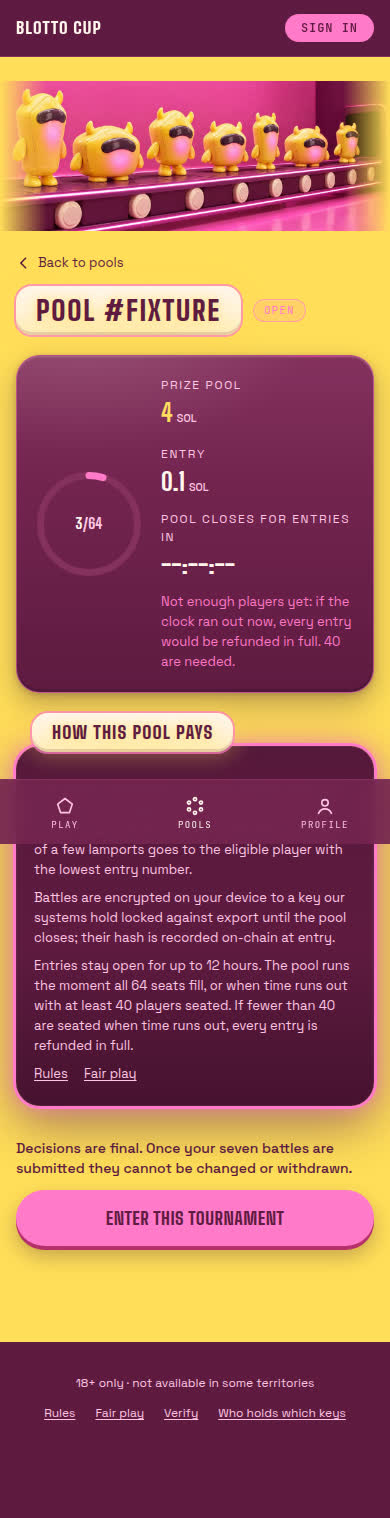
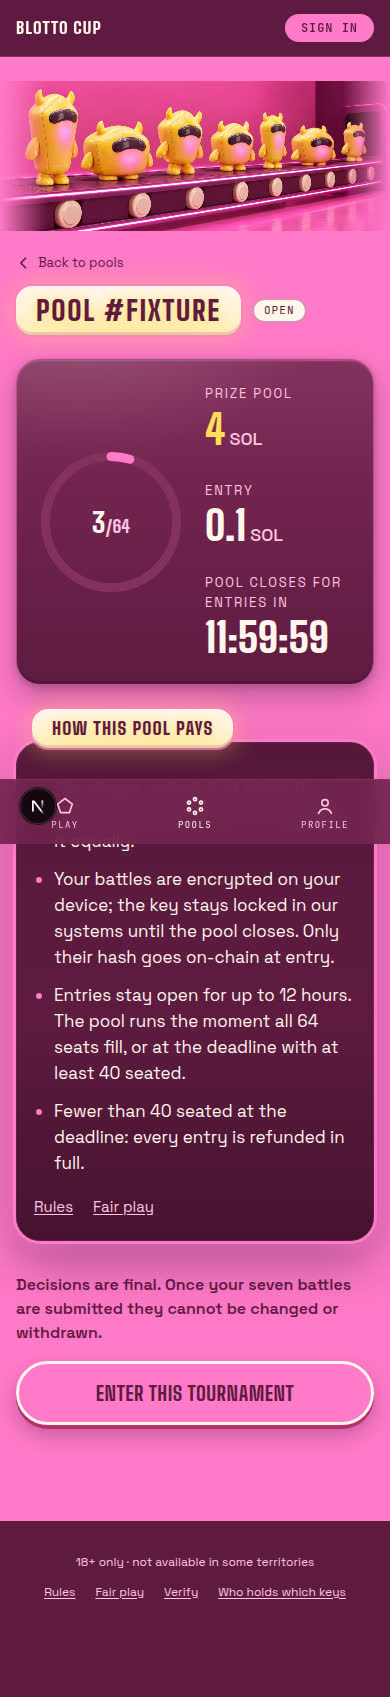
docs: round two — §C in the change doc, and the captures that go with it
§C records the founder's second round on the preview (the welcome strap,
the pool page), the R7-b reversal it asked for, the capture bug found on
the way (127.0.0.1 versus localhost on the Next 16 dev server) and the
gate results. Captures: welcome-1440, welcome-390 and welcome-1920x830
are new; pool-1440 and pool-390 are replaced by hydrated captures.

Claude-Session: https://claude.ai/code/session_01TuNr1yLr4RT7vqdaUqkyb5

diff --git a/docs/CHANGE-2026-09-16_ui-uplift.md b/docs/CHANGE-2026-09-16_ui-uplift.md
@@ -600,3 +600,77 @@ After-captures for the founder's morning review: `docs/design/uplift-2026-09-16/
 - `bfdc1fa` play: the run clip regenerated without the palette drift
 - the docs commit after it: this report (§B), the `docs/INDEX.md` row and `docs/design/uplift-2026-09-16/`
   (eight review captures)
+
+---
+
+# §C — Round two (founder feedback on the preview, 2026-09-16 ~21:00 UTC)
+
+Three asks, taken in the order given. Same boundaries as §A: the dial rule, the entry path and
+the run were not opened; nothing deployed, nothing merged; every new string is a `PHASE-N-REVIEW`
+proposal in `app/src/copy/index.ts`.
+
+## C1. The welcome curtain (`app/src/components/preloader/Preloader.tsx`)
+
+- The Enter block moved from 76 % of the height (across the letters' feet) to the bottom band —
+  `bottom: max(3.5rem, safe-area + 3rem)` — and the film is cover-cropped from the top
+  (`object-position: 50% 85%`) so that band survives a wide, short window: at 1920×830 with the
+  0.9 scale the word's feet sit at about 78 % and the block starts under them. At 1440×900 there
+  is clear floor between the two; on a phone the film is letterboxed above the block as before.
+- The line is set in the display face, capitals, 22 / 26 / 30 px by breakpoint, in three pieces
+  that wrap whole (a phone gets two lines, split at a dot); the button grew to 26 / 30 px. Still
+  words, not digits, on the brand surface.
+- Wording (`preloader.line`): "Sixty-four seats · Seven battles · Winner takes the prize pool" —
+  the last piece is the ratified D-E2 form (`pool.tierWinner`). Alternates if the founder wants
+  it sharper still: (a) "Sixty-four seats · Seven battles · First place takes the prize pool";
+  (b) "Seven battles · Sixty-four seats · One prize pool". The screen-reader intro is unchanged.
+
+## C2. The pool page (`app/src/app/pools/[pool]/`)
+
+- Field back to pink; the rails flush to the viewport edges (the 1440 cap on the field is gone,
+  their basis `clamp(200px, 23vw, 440px)`), the column between them `max-w-3xl` (768 px) instead
+  of 672; the inner-edge fades are pink.
+- The card: the ring at 140, the prize, entry and clock at a new `lg` size on `Stat` and
+  `Countdown` (40 px extra-bold, 13 px labels), padding 24 / 32. **The R7-b line ("Not enough
+  players yet…", founder instruction 2026-09-12 §4.4) is off the card at the founder's request.**
+  That reverses the 2026-09-12 instruction; the rule it restated is the last two points of the
+  box below, and `pool.outcomeIfDeadlineNow` stays in the copy module because the read API still
+  reports the field. Worth a conscious yes rather than a silent one.
+- "How this pool pays": four bullets at 17 / 26 px in ink (was three 13 px paragraphs in muted),
+  `pool.aboutPoints`. The ratified long forms `prizeRule` / `sealed` / `refundRule` stay in the
+  module (`sealed` is still the sealed panel's line). Dropped from this page, not from the
+  product: the lamport-remainder rule, which the Rules page carries in its ties and randomness
+  sections.
+- The state chip beside the marquee gets a `field` tone (cream plaque, berry ink) — on pink the
+  `open` tone was pink on pink. The Enter control wears the welcome curtain's cream ring for the
+  same reason; the §8.6 line is 16 px semibold and still above it (the journey test asserts the
+  order).
+- `e2e/journey.spec.ts`: the prize-sentence assertion follows the new first bullet.
+
+## C3. A capture bug found on the way
+
+Every review capture in §B was taken through `127.0.0.1`. Next 16's dev server treats that as a
+cross-origin dev request and withholds the client chunks, so those captures are the server render
+without hydration: the pool card's clock shows the `--:--:--` placeholder in §B's `pool-1440` /
+`pool-390`, and the welcome curtain (client-mounted) could not be captured at all. Through
+`localhost` both are right; this round's captures were taken that way and the two pool ones
+replace §B's. Nothing in the product was affected — the journey lane runs the production build on
+its own server — and the harness in the scratchpad now uses `localhost`.
+
+## C4. Verification and captures
+
+On `e1fefa3`, from `app/`: `npm run typecheck` — clean; `npm run lint` — clean; `npm test` — 62
+files, 489 tests passed; `NEXT_PUBLIC_FIXTURE_DATA=1 npm run build` — compiled; `npm run journey` —
+16 of 16 across mobile-375 and desktop-1280 (10.7 s), the pool assertion updated. From the root,
+`./scripts/check-language.sh` — clean, run again after this section was written. The lane's
+screenshot output and `app/next-env.d.ts` were restored before committing.
+
+Captures (`docs/design/uplift-2026-09-16/`): `welcome-1440.jpg`, `welcome-390.jpg` and
+`welcome-1920x830.jpg` (the founder's own geometry) are new; `pool-1440.jpg` and `pool-390.jpg`
+are replaced. Figma was not updated this round — the founder is reviewing the built pages
+directly, and the §B4 pool frame now shows the yellow field; refreshing it is a follow-up if
+wanted.
+
+## C5. Commits
+
+- `e1fefa3` app: round two — the welcome strap under the word, and the pool page on pink
+- the docs commit after it: this section and the five captures
